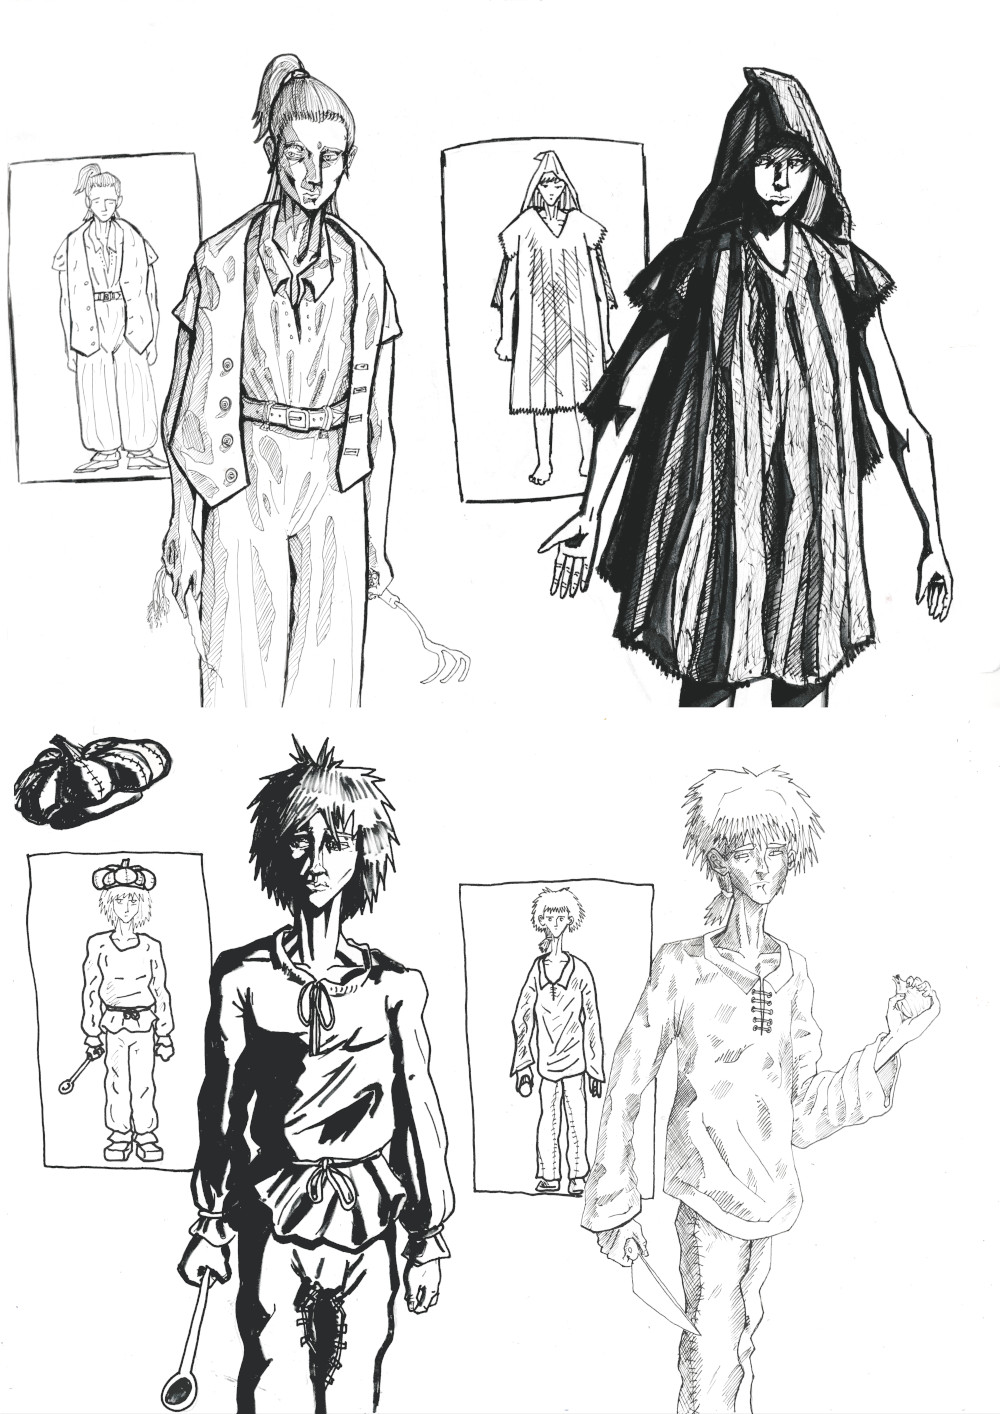
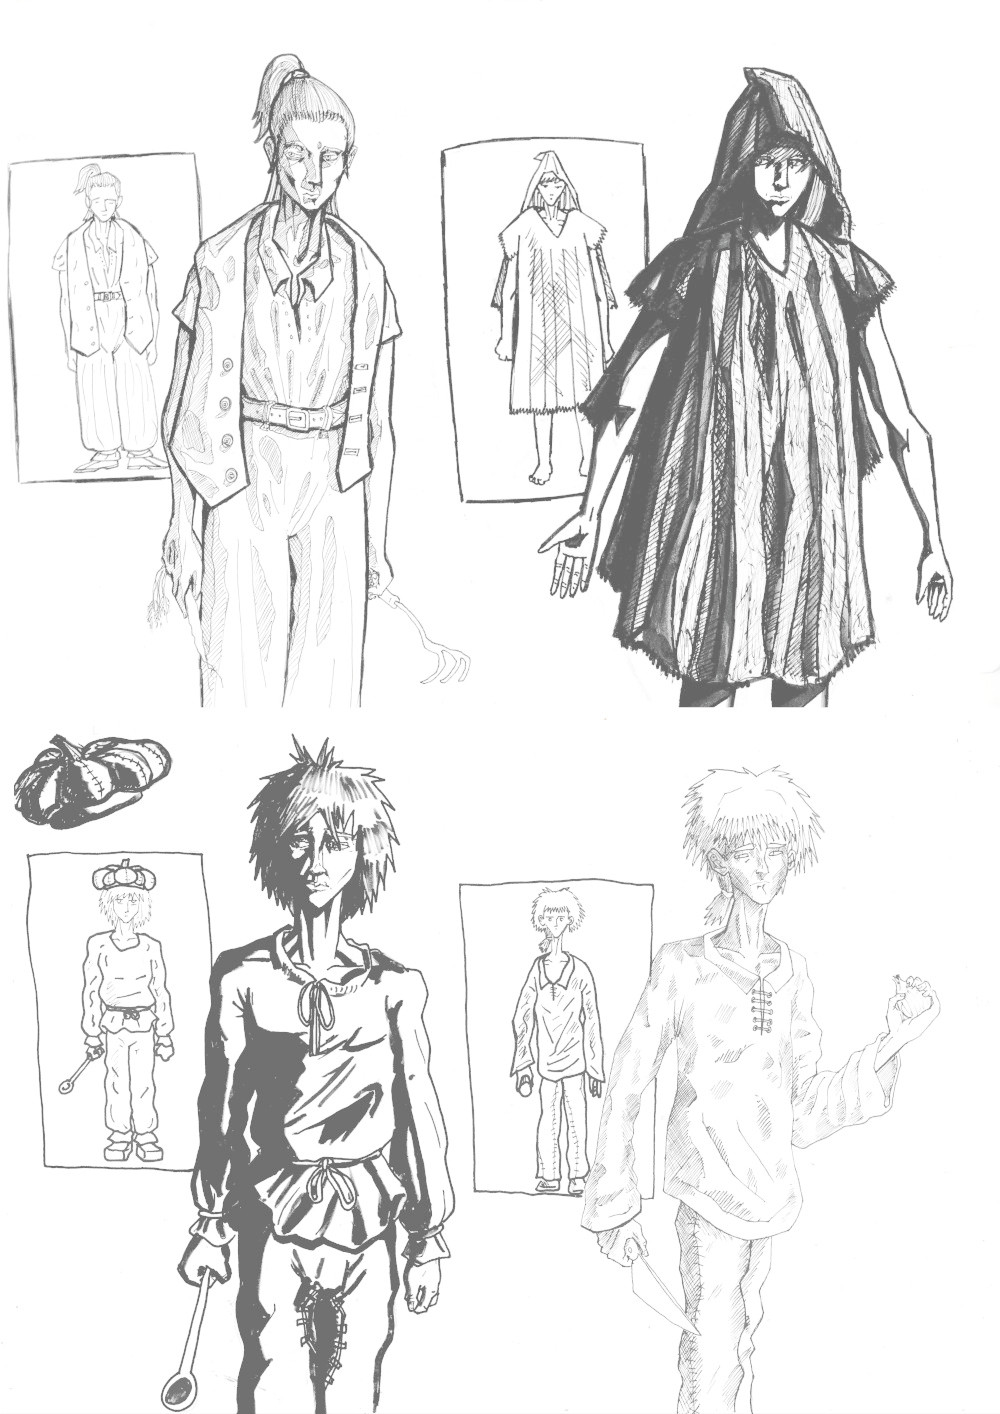
First bulk of Philip drawings

diff --git a/blog/source/_posts/2020/2020-06-08-kouzelnik-philip-ward.md b/blog/source/_posts/2020/2020-06-08-kouzelnik-philip-ward.md
@@ -51,8 +51,39 @@ Tou dobou jsem už čile komunikoval s [ticho762](https://www.facebook.com/ticho
 
 Odpověděl ještě týž den, poprvé svým osobitým zdrcnutě šroubovaným slohem, že už něco nakreslil. Překvapil chlapec.
 
-### Philipův nástřel
+#### Philipův první nástřel
 
 Philip poslal jednoduchou skicu
 
-![Philipova prvni skica](/assets/images/posts/kouzelnik_philip_ward/philip_ward_navrhy_drd.jpg?version=b508485d505a31bf68df5eb2d78eb090)
+![Philipova prvni skica](/assets/images/posts/kouzelnik_philip_ward/philip_ward_navrhy_drd.png?version=bd3d8ab55bb436b272d67753ec1a222b)
+
+a ať si prý vyberu styl.
+
+*Na první pokus to není špatné*, říkal jsem si.
+
+Philip chtěl v práci pokračovat, ale vymínil si důraznější zadání s jasným datem, do kdy má práci odevzdat. Že by se mu lépe pracovalo pod tlakem?
+
+#### Důraznější zadání
+> Dodej nám do 31. července tři obrázky
+
+- *dítě co šlo do sklepa*
+- *služebnou Annu, která se starala o hosty v šenku*
+- *hostinského, který vyjednával svatbu (věk kolem čtyřiceti, zbytek necháme na tobě - pokud bys chtěl nějaké tipy, tak trochu při těle, v kazajce s velkými knoflíky, v kratších kalhotách, ve dřevácích)*
+
+Philip dostal dva měsíce na to, aby nakreslil třikrát tolik obsahu, než kolik stvořil dosud za půl roku. No, uvidíme.
+
+#### Vidíme důraznější výsledky
+
+A Philip slovo dodržel. 26. 7. 2019, pět dní před vypršením lhůty poslal, co jsme chtěli a ještě přidal návdavek.
+
+![Šenkýř přijímá zálohu za veselku](/assets/images/posts/kouzelnik_philip_ward/senkyr_prijima_zalohu_za_veselku.png?version=cd870f51783cc1682b9e1ddd4c9b39f3)
+- Šenkýř přijímá zálohu za veselku
+
+![Šenkýř spěchá na schůzku se starostou](/assets/images/posts/kouzelnik_philip_ward/senkyr_specha_na_schuzku_se_starostou.png?version=369d93240818df60efaf73a2e54208d1)
+- Šenkýř spěchá na schůzku se starostou
+
+![Služebná Anna nasupeně obsluhuje žíznivé hosty](/assets/images/posts/kouzelnik_philip_ward/sluzebna_anna_nasupene_obsluhuje_ziznive_hosty.png?version=b908397c39a5a49ae3f37cd2ff38b516)
+- Služebná Anna nasupeně obsluhuje žíznivé hosty
+
+![Služebná Anna nestíhá kuchyň a hosty dohromady](/assets/images/posts/kouzelnik_philip_ward/sluzebna_anna_nestiha_kuchyn_a_hosty_dohromady.png?version=5b60658e1dc612fe5666a3aaa1a5d9c3)
+- Služebná Anna nestíhá kuchyň a hosty dohromady
